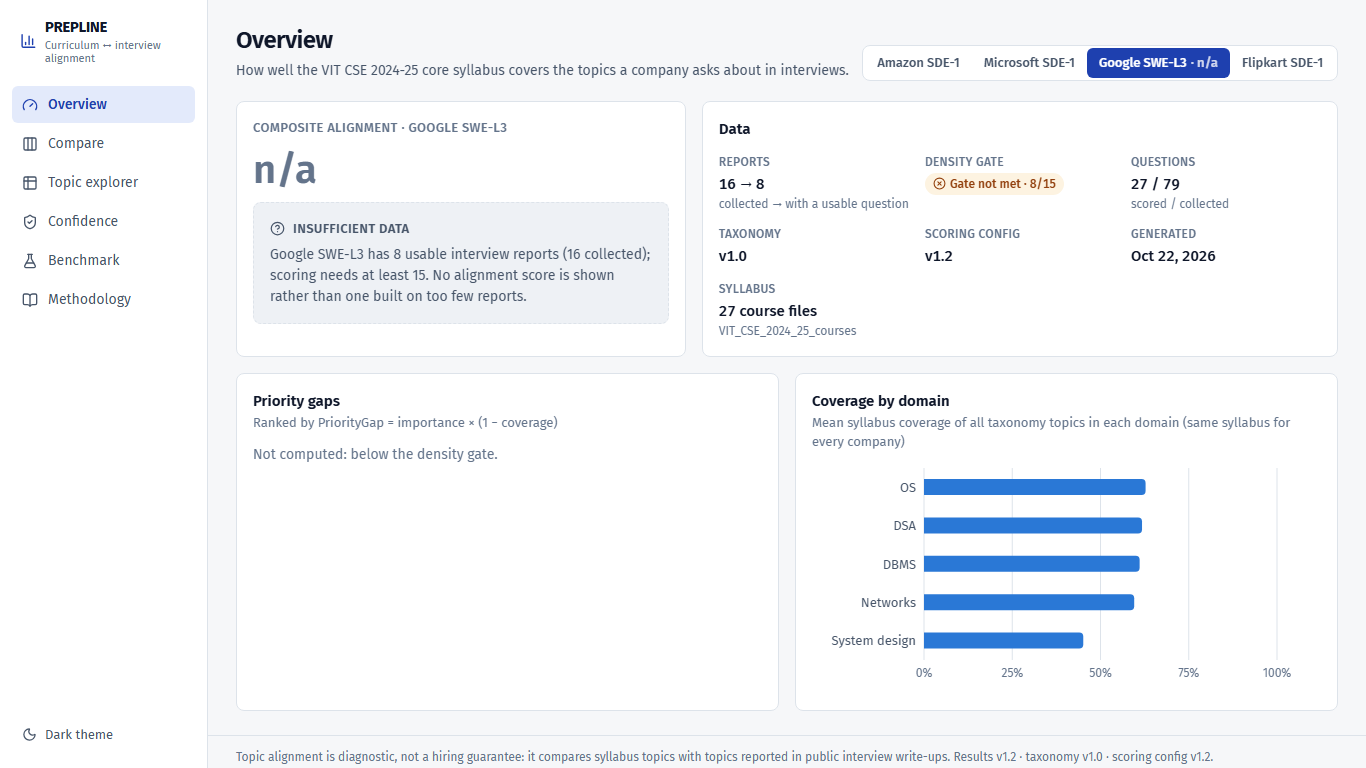
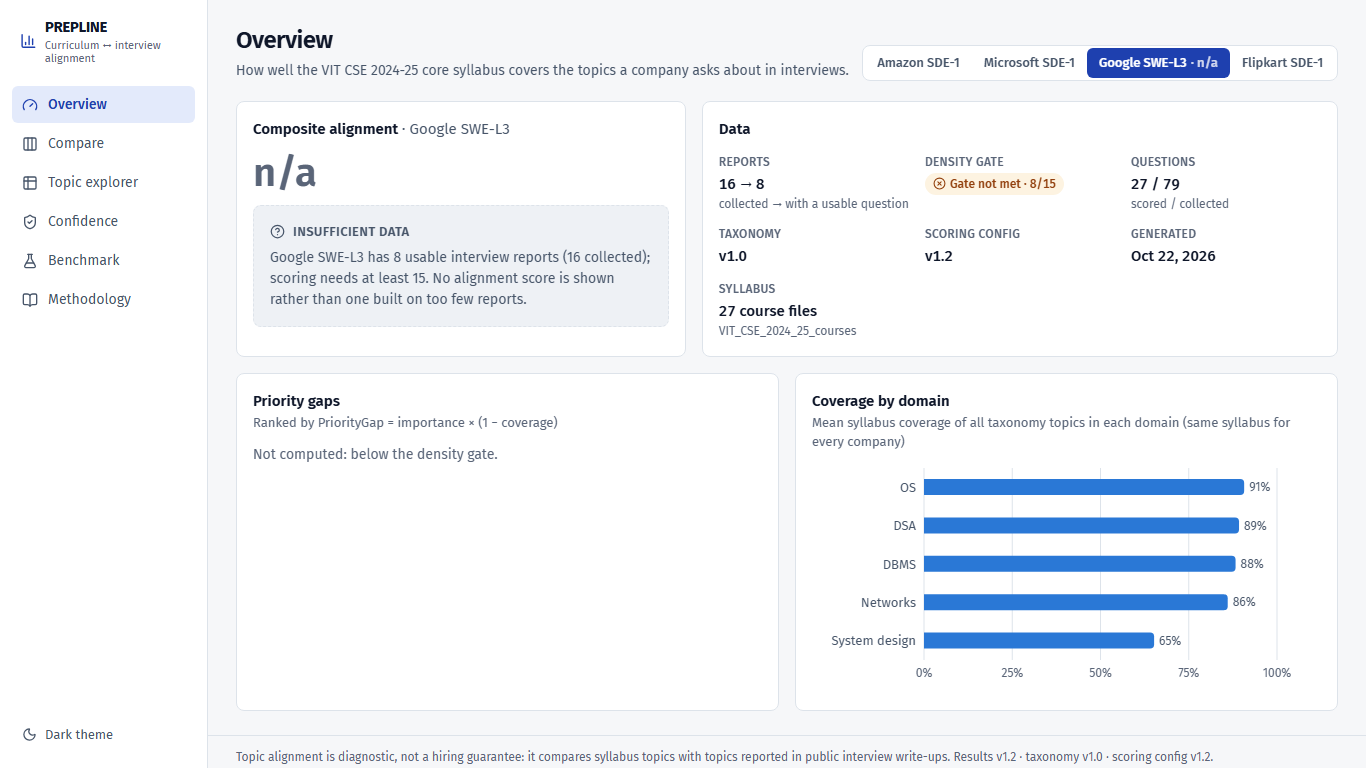
Dashboard: start_demo.ps1, READMEs, polish and animation-performance pass
Polish (Impeccable): card heading instead of an eyebrow over S_comp plus a one-line meaning, no section numbers,
skeleton loading, themed selection/scrollbars/accent, light ink-3 darkened to meet 4.5:1 on every surface.
Worst-case data (break-ui) fixes: missing-results and missing-topic-table states, wrapping target selector,
no overflow at 360 px. Animation performance: Recharts JS bar animations off (main thread during data load);
CSS motion is transform/opacity only and removed under reduced motion. Pages are code-split (no chunk over 360 kB).
Tests: 17 Playwright (every page, Google insufficient state, worst-case data), screenshots in dashboard/screenshots/.

Changed region(s): [[0.1845, 0.2812, 0.4919, 0.4062], [0.7687, 0.625, 0.9224, 0.8438], [0.1845, 0.1562, 0.369, 0.25]]

diff --git a/dashboard/web/src/pages/Overview.tsx b/dashboard/web/src/pages/Overview.tsx
@@ -65,9 +65,9 @@ export default function Overview() {
       {data && (
         <div className="grid grid-cols-12 gap-4" data-testid="overview">
           <Card className="col-span-5 max-[1100px]:col-span-12" testId="score-card">
-            <p className="text-[13px] font-medium uppercase tracking-wide text-ink-3">
-              Composite alignment · {data.target.company} {data.target.role}
-            </p>
+            <h2 className="text-[15px] font-semibold text-ink">
+              Composite alignment <span className="font-normal text-ink-2">· {data.target.company} {data.target.role}</span>
+            </h2>
             {confidence ? (
               <>
                 <div className="mt-2 flex flex-wrap items-end gap-x-4 gap-y-2">
@@ -77,11 +77,17 @@ export default function Overview() {
                   </p>
                   <ConfidenceBadge level={confidence.level} />
                 </div>
-                <ul className="mt-3 space-y-0.5 text-[13px] text-ink-2">
-                  {confidence.reasons.map((r) => (
-                    <li key={r}>· {r}</li>
-                  ))}
-                </ul>
+                <p className="mt-3 max-w-[38ch] text-[14px] text-ink-2">
+                  Importance-weighted syllabus coverage of the {data.result.scoring_universe_size} topics this company's
+                  interviewers ask about.
+                </p>
+                {confidence.reasons.length > 0 && (
+                  <ul className="mt-2 list-disc space-y-0.5 pl-4 text-[13px] text-ink-3">
+                    {confidence.reasons.map((r) => (
+                      <li key={r}>{r}</li>
+                    ))}
+                  </ul>
+                )}
               </>
             ) : (
               <div className="mt-3 space-y-3">
@@ -183,7 +189,7 @@ export default function Overview() {
                     fill="var(--series)"
                     radius={[0, 4, 4, 0]}
                     barSize={16}
-                    animationDuration={350}
+                    isAnimationActive={false}
                     label={{
                       position: "right",
                       formatter: (v: unknown) => pct(Number(v)),

diff --git a/dashboard/web/src/App.tsx b/dashboard/web/src/App.tsx
@@ -1,12 +1,22 @@
+import { lazy, Suspense } from "react";
 import { BrowserRouter, Route, Routes } from "react-router-dom";
 import { Layout } from "./components/Layout";
+import { Loading } from "./components/ui";
 import { TargetProvider } from "./lib/target";
-import Benchmark from "./pages/Benchmark";
-import Compare from "./pages/Compare";
-import Confidence from "./pages/Confidence";
-import Methodology from "./pages/Methodology";
-import Overview from "./pages/Overview";
-import Topics from "./pages/Topics";
+
+// Pages load on demand: Recharts and KaTeX stay out of the first bundle.
+const Overview = lazy(() => import("./pages/Overview"));
+const Compare = lazy(() => import("./pages/Compare"));
+const Topics = lazy(() => import("./pages/Topics"));
+const Confidence = lazy(() => import("./pages/Confidence"));
+const Benchmark = lazy(() => import("./pages/Benchmark"));
+const Methodology = lazy(() => import("./pages/Methodology"));
+
+const page = (Component: React.ComponentType) => (
+  <Suspense fallback={<Loading />}>
+    <Component />
+  </Suspense>
+);
 
 export default function App() {
   return (
@@ -14,12 +24,12 @@ export default function App() {
       <BrowserRouter>
         <Routes>
           <Route element={<Layout />}>
-            <Route index element={<Overview />} />
-            <Route path="compare" element={<Compare />} />
-            <Route path="topics" element={<Topics />} />
-            <Route path="confidence" element={<Confidence />} />
-            <Route path="benchmark" element={<Benchmark />} />
-            <Route path="methodology" element={<Methodology />} />
+            <Route index element={page(Overview)} />
+            <Route path="compare" element={page(Compare)} />
+            <Route path="topics" element={page(Topics)} />
+            <Route path="confidence" element={page(Confidence)} />
+            <Route path="benchmark" element={page(Benchmark)} />
+            <Route path="methodology" element={page(Methodology)} />
           </Route>
         </Routes>
       </BrowserRouter>

diff --git a/dashboard/web/src/pages/Confidence.tsx b/dashboard/web/src/pages/Confidence.tsx
@@ -24,7 +24,7 @@ export default function Confidence() {
       {(comparison.loading || results.loading) && !(comparison.data && results.data) && <Loading />}
       {comparison.data && results.data && (
         <div className="grid grid-cols-3 gap-4 max-[1150px]:grid-cols-1" data-testid="confidence">
-          <Card title="1 · Insufficient data" subtitle={`A target needs ${comparison.data.min_reports} reports with at least one usable question.`} testId="indicator-gate">
+          <Card title="Insufficient data" subtitle={`A target needs ${comparison.data.min_reports} reports with at least one usable question.`} testId="indicator-gate">
             <p className="mb-3 text-[14px] text-ink-2">
               Behavioural rounds, vague mentions and questions given only as a link are filtered out first. Below the
               gate no score is computed at all.
@@ -44,7 +44,7 @@ export default function Confidence() {
             </ul>
           </Card>
 
-          <Card title="2 · Fallback depth" subtitle="Topics whose syllabus units carry no depth signal (hours, labs, experiments)." testId="indicator-fallback">
+          <Card title="Fallback depth" subtitle="Topics whose syllabus units carry no depth signal (hours, labs, experiments)." testId="indicator-fallback">
             <p className="text-[14px] text-ink-2">
               Such a topic gets the minimum depth D = 1. With γ = {gamma}, a topic that is present but at depth 1 counts
               as only{" "}
@@ -77,7 +77,7 @@ export default function Confidence() {
           </Card>
 
           <Card
-            title="3 · Unmapped terms"
+            title="Unmapped terms"
             subtitle={`Terms that matched no taxonomy node (τ = ${results.data.result.scoring_config.similarity_threshold}) for ${results.data.target.company} ${results.data.target.role}.`}
             testId="indicator-unmapped"
           >

diff --git a/dashboard/web/src/components/ui.tsx b/dashboard/web/src/components/ui.tsx
@@ -1,5 +1,5 @@
 import type { ReactNode } from "react";
-import { AlertTriangle, CheckCircle2, CircleHelp, Loader2, XCircle } from "lucide-react";
+import { AlertTriangle, CheckCircle2, CircleHelp, XCircle } from "lucide-react";
 import type { ConfidenceLevel } from "../lib/confidence";
 
 export function Card({ title, subtitle, children, className = "", testId }: {
@@ -67,11 +67,17 @@ export function GateChip({ passed, count, min }: { passed: boolean; count: numbe
   );
 }
 
+// Skeleton in the shape of a card grid, so content does not jump when data arrives.
 export function Loading({ label = "Loading" }: { label?: string }) {
   return (
-    <div className="flex items-center gap-2 py-10 text-ink-3" role="status">
-      <Loader2 size={16} className="animate-spin motion-reduce:animate-none" aria-hidden="true" />
-      {label}…
+    <div role="status" aria-label={`${label}…`} className="grid grid-cols-12 gap-4">
+      {["col-span-5", "col-span-7", "col-span-6", "col-span-6"].map((span, i) => (
+        <div
+          key={i}
+          className={`${span} h-40 animate-pulse rounded-lg border border-line bg-surface motion-reduce:animate-none max-[1100px]:col-span-12`}
+        />
+      ))}
+      <span className="sr-only">{label}…</span>
     </div>
   );
 }

diff --git a/dashboard/web/src/lib/confidence.ts b/dashboard/web/src/lib/confidence.ts
@@ -20,7 +20,7 @@ export function confidenceOf(result: Result, minReports: number): Confidence {
   const margin = result.report_count - minReports;
   if (margin < 3) reasons.push(`only ${margin} report${margin === 1 ? "" : "s"} above the ${minReports}-report gate`);
   const universe = result.scoring_universe_size ?? 0;
-  if (universe < 10) reasons.push(`S_comp rests on ${universe} interview topics`);
+  if (universe < 10) reasons.push(`fewer than 10 topics carry the score (${universe})`);
   const presentFallback = result.depth_counts?.present_topics?.fallback ?? 0;
   if (presentFallback > 0) reasons.push(`${presentFallback} covered topics use fallback depth`);
   const level: ConfidenceLevel = reasons.length === 0 ? "High" : reasons.length === 1 ? "Medium" : "Low";

diff --git a/dashboard/web/src/index.css b/dashboard/web/src/index.css
@@ -38,7 +38,7 @@
   --surface-2: #eef1f5;
   --ink: #0f172a;
   --ink-2: #475569;
-  --ink-3: #64748b;
+  --ink-3: #5a6578;
   --line: #dde3ea;
   --primary: #1e40af;
   --primary-soft: #e3eafb;
@@ -100,5 +100,8 @@ body { font-family: var(--font-sans); font-size: 15px; line-height: 1.5; -webkit
   .page-enter { transition: opacity 120ms linear; transform: none; @starting-style { transform: none; } }
   .bar-grow { transition: none; }
 }
+
+:root { accent-color: var(--primary); caret-color: var(--primary); scrollbar-color: var(--line) transparent; }
+::selection { background: var(--primary-soft); color: var(--ink); }
 
 :focus-visible { outline: 2px solid var(--primary); outline-offset: 2px; border-radius: 4px; }

diff --git a/dashboard/web/src/pages/Compare.tsx b/dashboard/web/src/pages/Compare.tsx
@@ -36,7 +36,7 @@ export default function Compare() {
                   <NoResultsState company={t.company} role={t.role} />
                 ) : t.status === "SUCCESS" ? (
                   <>
-                    <h3 className="mb-2 text-[12px] font-medium uppercase tracking-wide text-ink-3">Top gaps</h3>
+                    <h3 className="mb-2 text-[13px] font-medium text-ink-2">Top priority gaps</h3>
                     <GapBars gaps={t.top_priority_gaps} limit={5} compact />
                     <p className="tabular mt-3 text-[12px] text-ink-3">
                       {t.scoring_universe_size} scored topics · {t.fallback_topics} fallback-depth topics ·{" "}

diff --git a/dashboard/web/src/pages/Benchmark.tsx b/dashboard/web/src/pages/Benchmark.tsx
@@ -95,7 +95,7 @@ export default function Benchmark() {
                     itemStyle={{ color: "var(--ink-2)" }}
                     formatter={(v: unknown) => [num(Number(v)), "Test macro-F1"]}
                   />
-                  <Bar dataKey="f1" fill="var(--series)" radius={[4, 4, 0, 0]} barSize={44} animationDuration={350}>
+                  <Bar dataKey="f1" fill="var(--series)" radius={[4, 4, 0, 0]} barSize={44} isAnimationActive={false}>
                     <LabelList dataKey="f1" position="top" formatter={(v: unknown) => num(Number(v))} fill="var(--ink)" fontSize={12} />
                   </Bar>
                 </BarChart>

diff --git a/dashboard/README.md b/dashboard/README.md
@@ -1,0 +1,72 @@
+# PREPLINE dashboard (Phase 15)
+
+A read-only dashboard over the saved PREPLINE results: how well the VIT CSE 2024-25 core syllabus covers the topics
+four companies ask about in interviews. Topic alignment is diagnostic, not a hiring guarantee.
+
+## Start it
+
+```powershell
+powershell -ExecutionPolicy Bypass -File scripts/start_demo.ps1
+```
+
+This opens two windows (API on http://127.0.0.1:8000, dashboard on http://localhost:5173) and the dashboard in the
+browser. First run installs the npm packages. Needs Python with `requirements.txt` installed and Node.js 20+.
+`-NoBrowser` skips opening the browser; `-Python <path>` picks another interpreter.
+
+Manual start:
+
+```powershell
+python -m uvicorn backend.app:app --host 127.0.0.1 --port 8000      # repo root
+cd dashboard/web; npm install; npx vite --port 5173                  # second terminal
+```
+
+## Pages
+
+| Page | Shows |
+|---|---|
+| Overview | Company/role selector, S_comp with a confidence badge, data card (reports collected → usable, density gate, taxonomy/config versions, date), ranked priority gaps, coverage by domain |
+| Compare | All targets side by side; Google SWE-L3 shows an insufficient-data state (8 of 15 reports) instead of a score |
+| Topic explorer | All 83 topics: domain, importance, coverage, depth, measured/fallback, coverage source (direct/inherited); search, domain filter, sorting |
+| Confidence | The three indicators with live counts: insufficient data, fallback depth (a present topic at D = 1 counts 42.9 % covered with γ = 0.5), unmapped terms |
+| Benchmark | Matcher table (thresholds from dev, test macro-F1), test-F1 chart, label agreement (κ = 0.812), limitations |
+| Methodology | Formulas (KaTeX), pipeline diagram, versioning |
+
+Light and dark themes (sidebar toggle, remembered per browser). Laid out for a 1366×768 laptop or projector; it also
+reflows down to phone width.
+
+## Data
+
+The dashboard only reads saved files through the API; it never runs the pipeline.
+
+| Endpoint | Source |
+|---|---|
+| `GET /api/v1/targets` | `config/targets.json` + each target's results file |
+| `GET /api/v1/results/{target_id}` | `results/<id>_v1.2_course_syllabi.json` + `results/topics/<id>_v1.2_topics.json` |
+| `GET /api/v1/comparison` | the same results files, one summary row per target |
+| `GET /api/v1/benchmark` | `results/benchmark/benchmark_v1.0.json` (without per-item predictions) |
+
+Paths are set in `config/api.json` (`dashboard`); only configured target ids are served. The browser origin
+`http://localhost:5173` is in the CORS allowlist there. Topic tables come from `python evaluation/export_topic_tables.py`,
+which recomputes coverage and importance from the same inputs and refuses to write if S_comp differs from the saved
+result (it matched for every scored target). A new target appears after `run_all_targets.py` and the export.
+
+## Tests and screenshots
+
+```powershell
+cd dashboard/web
+npx playwright install chromium   # once
+npx playwright test               # starts or reuses both servers
+```
+
+`tests/dashboard.spec.ts` covers every page, the Google insufficient state, navigation, the theme toggle, the API-down
+error and reduced motion; `tests/worst-case.spec.ts` feeds realistic worst-case data through route mocks (long names,
+1,284 reports, one report, S_comp 0 and 100, no gaps, missing results and topic tables, 360 px width). Each run saves
+page screenshots to `dashboard/screenshots/` (worst-case ones in `screenshots/worst-case/`). The backend endpoints are
+tested in `evaluation/test_dashboard_api.py`.
+
+## Stack and design
+
+Vite, React 19, TypeScript, Tailwind CSS v4, Recharts, KaTeX, lucide icons, Fira Sans/Fira Code bundled locally (works
+offline). Design tokens live in `web/src/index.css` (light and dark, contrast-checked to WCAG AA for text). Motion is
+limited to transform/opacity CSS transitions (button press, page fade, gap bars) and is removed under
+`prefers-reduced-motion`; charts do not animate.

diff --git a/dashboard/web/README.md b/dashboard/web/README.md
@@ -1,32 +1,11 @@
-# React + TypeScript + Vite
+# dashboard/web
 
-This template provides a minimal setup to get React working in Vite with HMR and some Oxlint rules.
+The PREPLINE dashboard front end. See [../README.md](../README.md) for how to start it, the pages, the data it reads
+and the tests.
 
-Currently, two official plugins are available:
-
-- [@vitejs/plugin-react](https://github.com/vitejs/vite-plugin-react/blob/main/packages/plugin-react) uses [Oxc](https://oxc.rs)
-- [@vitejs/plugin-react-swc](https://github.com/vitejs/vite-plugin-react/blob/main/packages/plugin-react-swc) uses [SWC](https://swc.rs/)
-
-## React Compiler
-
-The React Compiler is not enabled on this template because of its impact on dev & build performances. To add it, see [this documentation](https://react.dev/learn/react-compiler/installation).
-
-## Expanding the Oxlint configuration
-
-If you are developing a production application, we recommend enabling type-aware lint rules by installing `oxlint-tsgolint` and editing `.oxlintrc.json`:
-
-```json
-{
-  "$schema": "./node_modules/oxlint/configuration_schema.json",
-  "plugins": ["react", "typescript", "oxc"],
-  "options": {
-    "typeAware": true
-  },
-  "rules": {
-    "react/rules-of-hooks": "error",
-    "react/only-export-components": ["warn", { "allowConstantExport": true }]
-  }
-}
+```powershell
+npm install
+npx vite --port 5173      # needs the API on http://127.0.0.1:8000 (VITE_API_BASE overrides)
+npx tsc -b; npx vite build
+npx playwright test
 ```
-
-See the [Oxlint rules documentation](https://oxc.rs/docs/guide/usage/linter/rules) for the full list of rules and categories.
